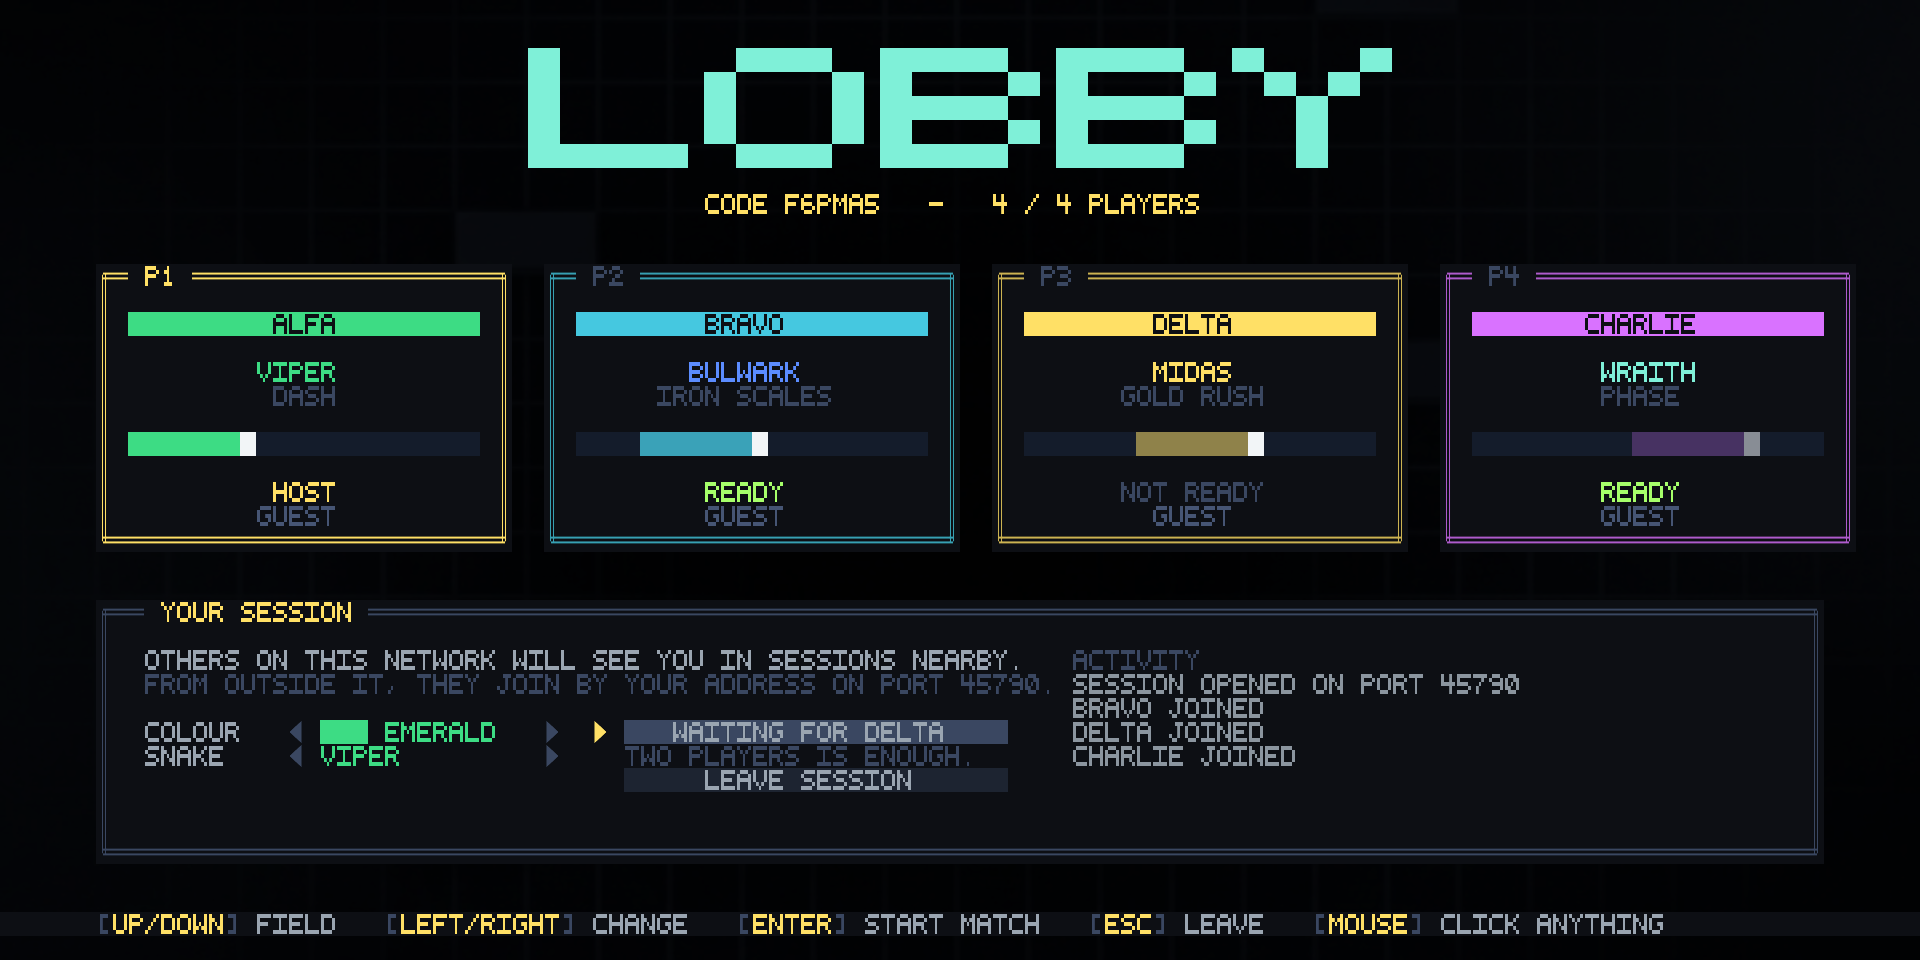
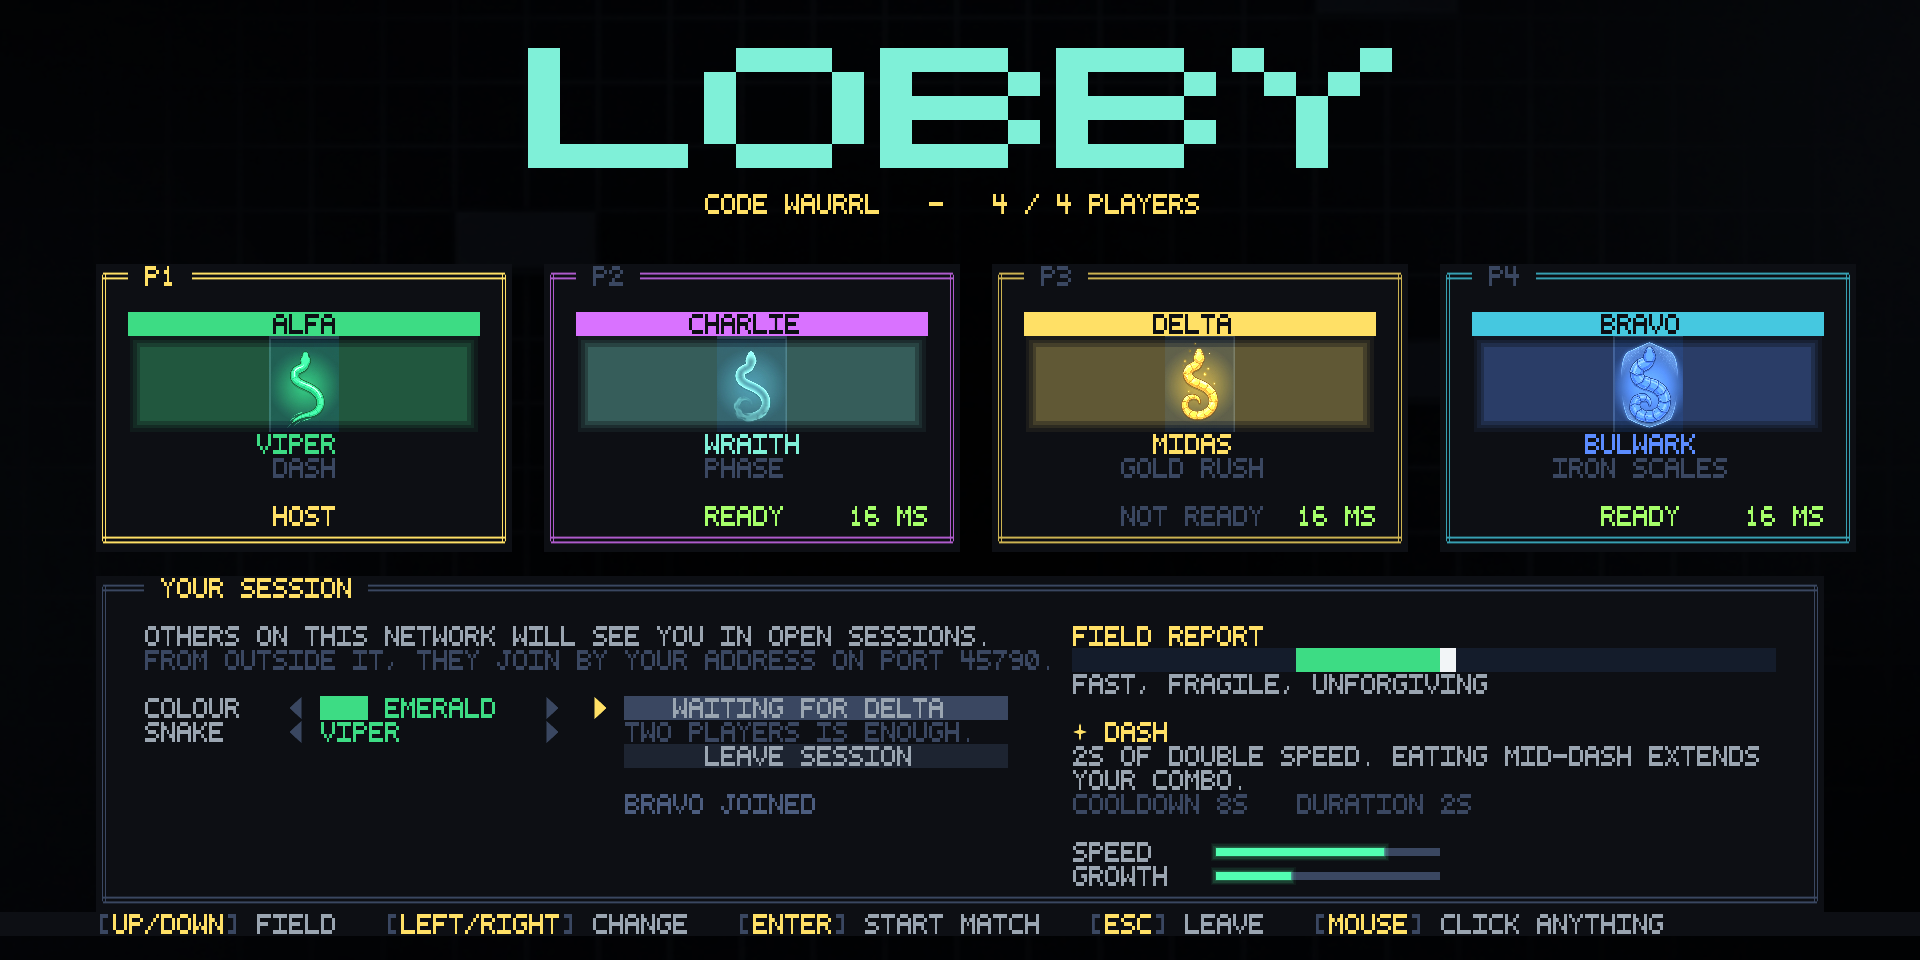
Draw the pointer ourselves in exclusive fullscreen
The mouse cursor vanished the moment the game went fullscreen, and it was
not a case of the visibility flag being lost. Exclusive fullscreen takes
the display away from the desktop compositor, and the compositor is what
paints the OS pointer -- so there is no pointer on that surface to make
visible, whatever setMouseCursorVisible is told. Calling it once after
create, again on focus, or every frame all fail identically.

So the game draws its own: an arrow as a triangle fan from the tip, black
outline behind a white fill so it stays readable over a bright board, laid
onto the canvas after the batches and therefore letterboxed and scaled with
everything else. The position is read straight from the mouse rather than
tracked from events, so it is right on the first frame after the switch,
before the player has moved anything.

Only exclusive fullscreen uses it. Windowed and borderless keep the real
pointer, which is what a player expects there, and the OS one is hidden
where ours is drawn so there can never be two.

Also refreshes the media for the new lobby seats and the options screen,
and documents the three window modes and the client-side prediction.

diff --git a/src/core/Screen.cpp b/src/core/Screen.cpp
@@ -7,10 +7,12 @@
 #include <SFML/Graphics/RenderStates.hpp>
 #include <SFML/Graphics/Sprite.hpp>
 #include <SFML/Window/Event.hpp>
+#include <SFML/Window/Mouse.hpp>
 #include <SFML/Window/VideoMode.hpp>
 
 #include <algorithm>
 #include <cmath>
+#include <iterator>
 
 namespace neoncoil
 {
@@ -147,12 +149,14 @@ namespace neoncoil
         m_window->setVerticalSyncEnabled(m_vsync);
         m_window->setKeyRepeatEnabled(true);
 
-        // Explicit, because this game is played with the mouse as much as the
-        // keyboard -- every menu says CLICK ANYTHING. A window created
-        // fullscreen or borderless does not reliably inherit the cursor state of
-        // the one it replaced, and a menu you cannot see the pointer on is not a
-        // menu you can use.
-        m_window->setMouseCursorVisible(true);
+        // Exclusive fullscreen owns the display outright, which takes it away
+        // from the desktop compositor -- and the compositor is what paints the
+        // OS pointer. There is therefore no cursor to make visible in that
+        // mode, whatever setMouseCursorVisible is told; the game has to draw
+        // its own. Windowed and borderless keep the real pointer, which is
+        // what a player expects there.
+        m_softwareCursor = m_displayMode == DisplayMode::Fullscreen;
+        m_window->setMouseCursorVisible(!m_softwareCursor);
     }
 
     void Screen::setVerticalSync(bool enabled)
@@ -198,7 +202,6 @@ namespace neoncoil
                 setMouseFromPixel(input, pressed->position);
             else if (const auto* released = event->getIf<sf::Event::MouseButtonReleased>())
                 setMouseFromPixel(input, released->position);
-
             input.handleEvent(*event);
         }
 
@@ -547,16 +550,76 @@ namespace neoncoil
         m_window->setView(view);
     }
 
+    void Screen::drawSoftwareCursor(sf::RenderTarget& target)
+    {
+        if (!m_window || !m_window->hasFocus())
+            return;
+
+        // Read the pointer directly rather than tracking the last mouse event:
+        // the cursor has to be in the right place on the very first frame after
+        // the switch to fullscreen, before the player has moved the mouse at
+        // all, and the letterboxed view is what makes this correct on any
+        // aspect ratio.
+        const sf::Vector2f p = m_window->mapPixelToCoords(sf::Mouse::getPosition(*m_window));
+        if (p.x < 0.0f || p.y < 0.0f || p.x > canvasWidth() || p.y > canvasHeight())
+            return;
+
+        // A plain arrow, as a triangle fan from the tip. Every point is an
+        // offset from the hotspot, so the tip lands exactly on the pointer.
+        static constexpr sf::Vector2f kOutline[] = {
+            { 0.0f, 0.0f }, { 0.0f, 17.0f }, { 4.5f, 13.0f }, { 7.0f, 19.5f },
+            { 10.0f, 18.0f }, { 7.5f, 12.0f }, { 12.5f, 12.0f }
+        };
+        constexpr std::size_t kPoints = std::size(kOutline);
+
+        // The fill is the same shape pulled in towards the tip, which leaves an
+        // even dark rim behind it. Without that rim a white arrow vanishes over
+        // the bright parts of the board.
+        constexpr float kFillScale = 0.78f;
+
+        sf::VertexArray arrow(sf::PrimitiveType::Triangles);
+        const sf::Vector2f texel{
+            m_solidRect.position.x + m_solidRect.size.x * 0.5f,
+            m_solidRect.position.y + m_solidRect.size.y * 0.5f };
+
+        const auto appendFan = [&](float scale, Color colour) {
+            const sf::Color tint = toSfml(colour);
+            for (std::size_t i = 1; i + 1 < kPoints; ++i)
+            {
+                arrow.append(sf::Vertex{ p, tint, texel });
+                arrow.append(sf::Vertex{ p + kOutline[i] * scale, tint, texel });
+                arrow.append(sf::Vertex{ p + kOutline[i + 1] * scale, tint, texel });
+            }
+        };
+
+        appendFan(1.0f, Color::Black);
+        appendFan(kFillScale, Color::White);
+
+        sf::RenderStates states;
+        states.texture = &m_atlas.texture();
+        target.draw(arrow, states);
+    }
+
     void Screen::present()
     {
+        // The view has to be current before the cursor is mapped, so the
+        // letterbox is applied first rather than after the canvas is drawn.
+        if (m_window)
+            applyLetterbox();
+
         m_target->clear(toSfml(m_clearColour));
         flushBatches(*m_target);
+
+        // Drawn onto the canvas, so it is letterboxed and scaled with
+        // everything else and cannot land in the black bars.
+        if (m_softwareCursor)
+            drawSoftwareCursor(*m_target);
+
         m_target->display();
 
         if (!m_window)
             return;
 
-        applyLetterbox();
         m_window->clear(sf::Color::Black);
         m_window->draw(sf::Sprite(m_target->getTexture()));
         m_window->display();

diff --git a/src/core/Screen.h b/src/core/Screen.h
@@ -137,6 +137,13 @@ namespace neoncoil
         // Maps a window pixel onto the virtual canvas and hands it to Input.
         void setMouseFromPixel(Input& input, sf::Vector2i pixel);
 
+        // Draws the pointer onto the canvas itself. Exclusive fullscreen takes
+        // the display away from the desktop compositor, and the compositor is
+        // what paints the OS cursor -- so in that mode the hardware pointer is
+        // simply not on screen no matter what setMouseCursorVisible says. The
+        // only pointer that can exist there is one the game draws.
+        void drawSoftwareCursor(sf::RenderTarget& target);
+
         void buildTargets(const std::wstring& title, bool windowed);
         void appendQuad(sf::VertexArray& batch, float x, float y, float w, float h,
             const sf::FloatRect& texRect, Color colour);
@@ -151,6 +158,7 @@ namespace neoncoil
 
         std::unique_ptr<sf::RenderWindow> m_window;
         DisplayMode m_displayMode{ DisplayMode::Windowed };
+        bool m_softwareCursor{ false };   // true whenever the OS one cannot show
         bool m_vsync{ true };
         std::unique_ptr<sf::RenderTexture> m_target;   // always present; the canvas
         bool m_offscreen{ false };

diff --git a/README.md b/README.md
@@ -21,6 +21,7 @@ itself, offscreen, from a pinned seed. Nothing here was staged.</sup>
 | **Snakes** | Five, each a different way to play rather than a palette swap. |
 | **Renderer** | Procedural neon: glow, particles, screen shake, batched into a few draw calls. |
 | **Input** | Keyboard and mouse everywhere. |
+| **Options** | Window mode, vsync, volumes, screen shake, bloom — saved beside the executable. |
 
 ## Screens
 
@@ -39,11 +40,19 @@ few seconds later. Highest score when the clock runs out.
 
 ![Four snakes sharing one arena, eating, dying and respawning](docs/demo_netplay.gif)
 
-**The lobby.** Four players, four snakes, four colours. The activity feed is real. The
-host's button names whoever it is waiting on, because a lobby never has to fill up —
-two players is a match.
+**The lobby.** Four players, four snakes, four colours — each seat showing the snake
+that player actually picked, with its ability under the portrait, so nobody has to
+guess what the table is bringing. The activity feed is real. The host's button names
+whoever it is waiting on, because a lobby never has to fill up — two players is a match.
 
-![A full four-player lobby](docs/shot_lobby.png)
+![A full four-player lobby, each seat showing its snake portrait and ability](docs/shot_lobby.png)
+
+![Players joining, picking snakes and readying up in the lobby](docs/demo_lobby.gif)
+
+**Options.** Window mode, vertical sync, volumes and comfort toggles, written to a
+plain text file beside the executable. `F11` toggles fullscreen from anywhere.
+
+![The options screen](docs/shot_options.png)
 
 <details>
 <summary>More screens — pause, level clear, game over, the session browser</summary>
@@ -82,6 +91,13 @@ clickable, and hover follows the pointer.
 Two turns can be buffered, so fast double-taps around a corner register instead of
 being swallowed.
 
+`F11` toggles fullscreen anywhere. Three window modes are offered rather than two:
+**windowed**, **borderless** (desktop-sized, no decoration — alt-tabs instantly and
+leaves a second monitor alone) and **exclusive fullscreen**. Exclusive fullscreen takes
+the display away from the desktop compositor, and the compositor is what draws the
+mouse pointer — so in that mode the game draws its own, on the canvas, letterboxed with
+everything else. The pointer never disappears, whichever mode you play in.
+
 ## Multiplayer
 
 ```
@@ -104,6 +120,16 @@ flowchart LR
         G3[Guest] -->|dials out| R
     end
 ```
+
+**The local snake is predicted; nothing else is.** A guest applies its own turn on the
+next frame and replays any turns the host has not acknowledged yet, so the controls
+answer immediately instead of after a round trip. Reconciliation snaps only when the
+host's head is somewhere the prediction never was — being a step ahead is the point,
+not a disagreement. Eating, kills and deaths stay host-authoritative, because showing a
+score that was not earned and then taking it back is worse than a tenth of a second of
+delay. Every snake also slides between tiles rather than jumping, single player
+included: it steps seven times a second, and no amount of netcode makes a teleport look
+continuous.
 
 Neither end has to accept an inbound connection: **both dial out to the relay**, so
 nobody forwards a port. The relay never parses a game message and holds no game
